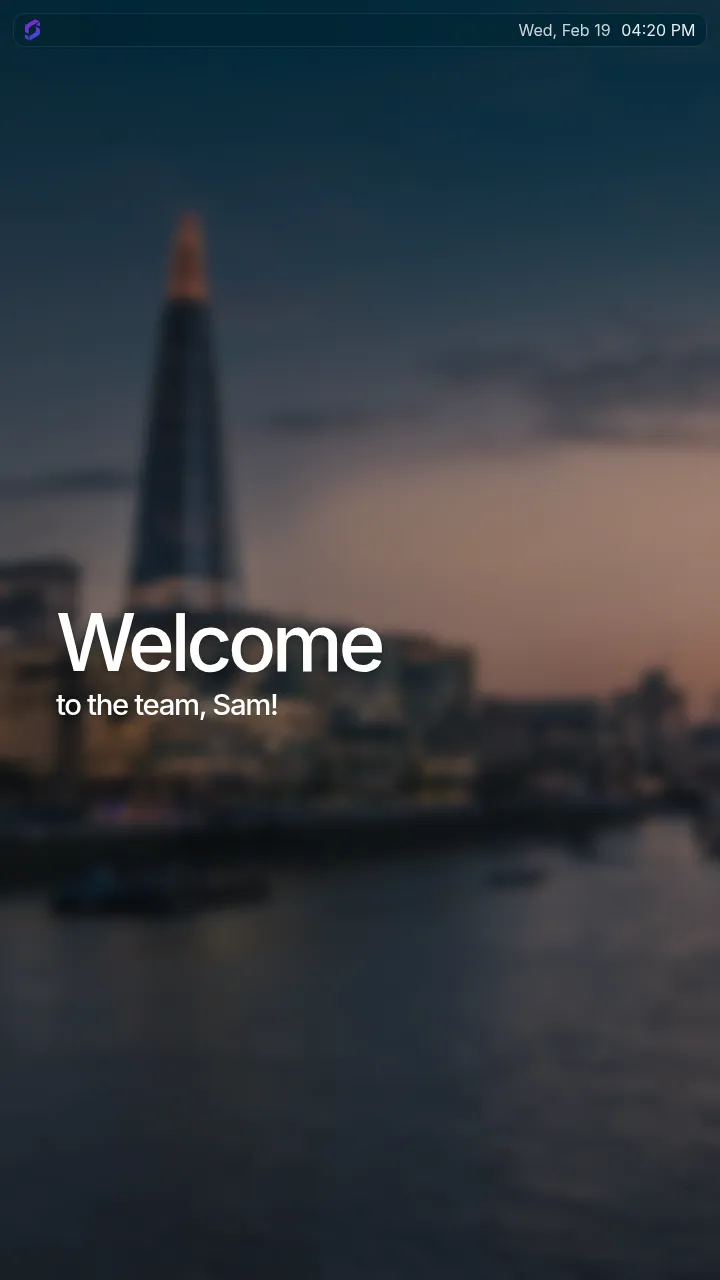
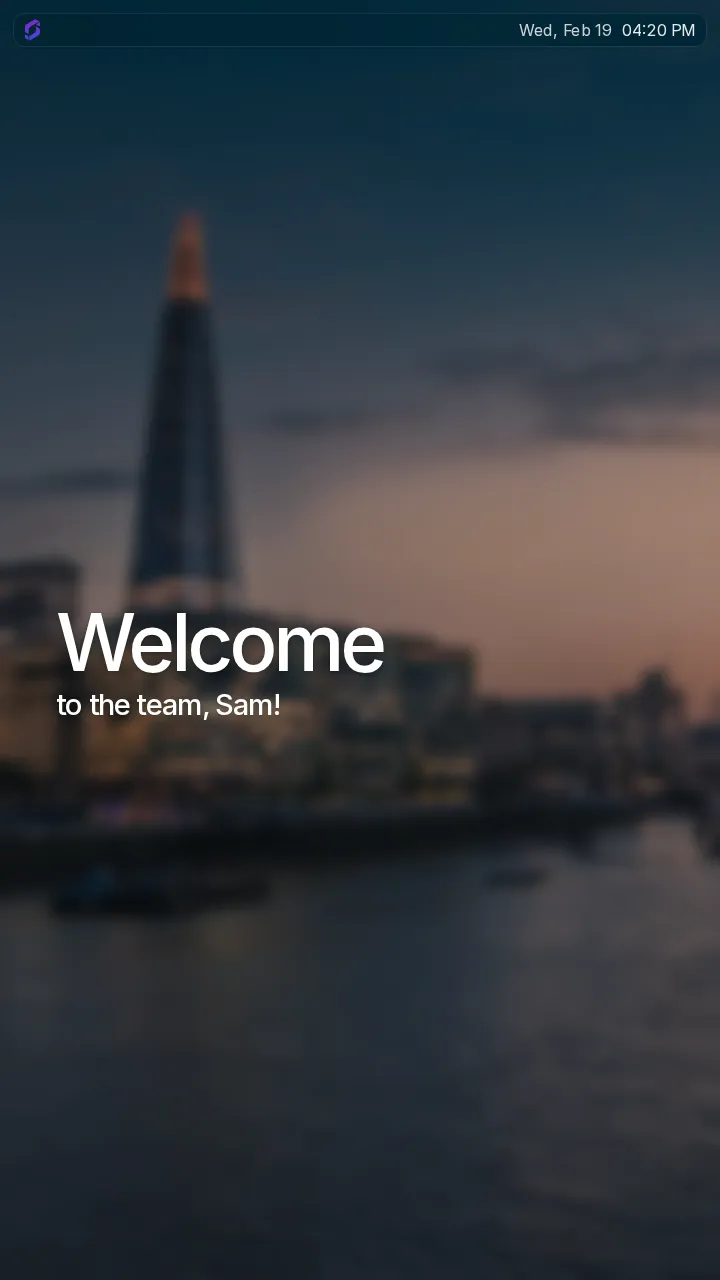
feat: adopt Tailwind CSS utility classes for styling
Rework index.html to use Tailwind utility classes instead of custom CSS
classes, keeping visual appearance and behavior unchanged. Slim the CSS
entry point down to just the design-system import. Bump
@screenly/edge-apps to ^1.3.0 for upcoming Tailwind CSS support.
Regenerate screenshots to reflect the change.

Changed region(s): [[0.1222, 0.5, 0.5194, 0.5625], [0.7944, 0.0, 0.9472, 0.0312]]

diff --git a/src/css/style.css b/src/css/style.css
@@ -1,97 +1,10 @@
-@import '@screenly/edge-apps/styles';
+/* Tailwind CSS, skipping Preflight (resets border/margin/padding on every
+   element via a universal selector and breaks custom-element hosts like
+   <app-header>). @screenly/edge-apps/styles goes in the `base` layer so any
+   Tailwind utility classes added later always win the cascade, regardless
+   of selector specificity. */
+@layer theme, base, utilities;
 
-* {
-  box-sizing: border-box;
-}
-
-body {
-  margin: 0;
-  padding: 0;
-  overflow: hidden;
-  color: white;
-  font-family: 'Inter', system-ui, sans-serif;
-  background: url('/static/images/bg.webp') no-repeat center center;
-  background-size: cover;
-}
-
-body::before {
-  content: '';
-  position: fixed;
-  inset: 0;
-  z-index: var(--z-index-backdrop);
-  pointer-events: none;
-  background: rgba(0, 0, 0, 0.2);
-  backdrop-filter: blur(7px);
-}
-
-auto-scaler {
-  position: fixed;
-  z-index: var(--z-index-content);
-}
-
-#app {
-  display: flex;
-  flex-direction: column;
-  width: 100%;
-  height: 100%;
-  padding: 1.25rem;
-  gap: 1rem;
-}
-
-.header {
-  flex-shrink: 0;
-}
-
-.content {
-  flex: 1;
-  display: flex;
-  flex-direction: column;
-  justify-content: center;
-  padding-left: 22.0625rem;
-  gap: 0.5rem;
-}
-
-.welcome-heading {
-  font-size: 11.25rem;
-  font-weight: 500;
-  letter-spacing: -0.055em;
-  line-height: 1;
-  margin: 0;
-  text-shadow:
-    0 0.125rem 0.5rem rgba(0, 0, 0, 0.3),
-    0 0.0625rem 0.125rem rgba(0, 0, 0, 0.15);
-  display: -webkit-box;
-  -webkit-box-orient: vertical;
-  -webkit-line-clamp: 2;
-  overflow: hidden;
-}
-
-.welcome-message {
-  font-size: 4rem;
-  font-weight: 500;
-  letter-spacing: -0.047em;
-  line-height: 1.2;
-  margin: 0;
-  text-shadow:
-    0 0.125rem 0.5rem rgba(0, 0, 0, 0.3),
-    0 0.0625rem 0.125rem rgba(0, 0, 0, 0.15);
-  display: -webkit-box;
-  -webkit-box-orient: vertical;
-  -webkit-line-clamp: 3;
-  overflow: hidden;
-}
-
-@media (orientation: portrait) {
-  .content {
-    padding-left: 4rem;
-    padding-right: 4rem;
-  }
-
-  .welcome-heading {
-    font-size: 7.5rem;
-  }
-
-  .welcome-message {
-    font-size: 2.75rem;
-  }
-}
+@import 'tailwindcss/theme.css' layer(theme);
+@import '@screenly/edge-apps/styles' layer(base);
+@import 'tailwindcss/utilities.css' layer(utilities);

diff --git a/index.html b/index.html
@@ -6,18 +6,29 @@
     <title>Welcome App - Screenly Edge App</title>
     <script src="screenly.js?version=1"></script>
   </head>
-  <body>
+  <body
+    class="text-white bg-[url('/static/images/bg.webp')] bg-no-repeat bg-center bg-cover before:content-[''] before:fixed before:inset-0 before:z-[var(--z-index-backdrop)] before:pointer-events-none before:bg-black/20 before:backdrop-blur-[7px]"
+  >
     <auto-scaler
       reference-width="1920"
       reference-height="1080"
       orientation="auto"
       padding="0"
+      class="fixed z-[var(--z-index-content)]"
     >
-      <div id="app">
-        <app-header class="header" show-date></app-header>
-        <main class="content">
-          <p id="welcome-heading" class="welcome-heading"></p>
-          <p id="welcome-message" class="welcome-message"></p>
+      <div id="app" class="flex flex-col w-full h-full p-5 gap-4">
+        <app-header class="shrink-0" show-date></app-header>
+        <main
+          class="flex-1 flex flex-col justify-center pl-[22.0625rem] gap-2 portrait:pl-16 portrait:pr-16"
+        >
+          <p
+            id="welcome-heading"
+            class="text-[11.25rem] portrait:text-[7.5rem] font-medium tracking-[-0.055em] leading-none m-0 text-shadow-[0_0.125rem_0.5rem_rgba(0,0,0,0.3),0_0.0625rem_0.125rem_rgba(0,0,0,0.15)] line-clamp-2"
+          ></p>
+          <p
+            id="welcome-message"
+            class="text-[4rem] portrait:text-[2.75rem] font-medium tracking-[-0.047em] leading-[1.2] m-0 text-shadow-[0_0.125rem_0.5rem_rgba(0,0,0,0.3),0_0.0625rem_0.125rem_rgba(0,0,0,0.15)] line-clamp-3"
+          ></p>
         </main>
       </div>
     </auto-scaler>
